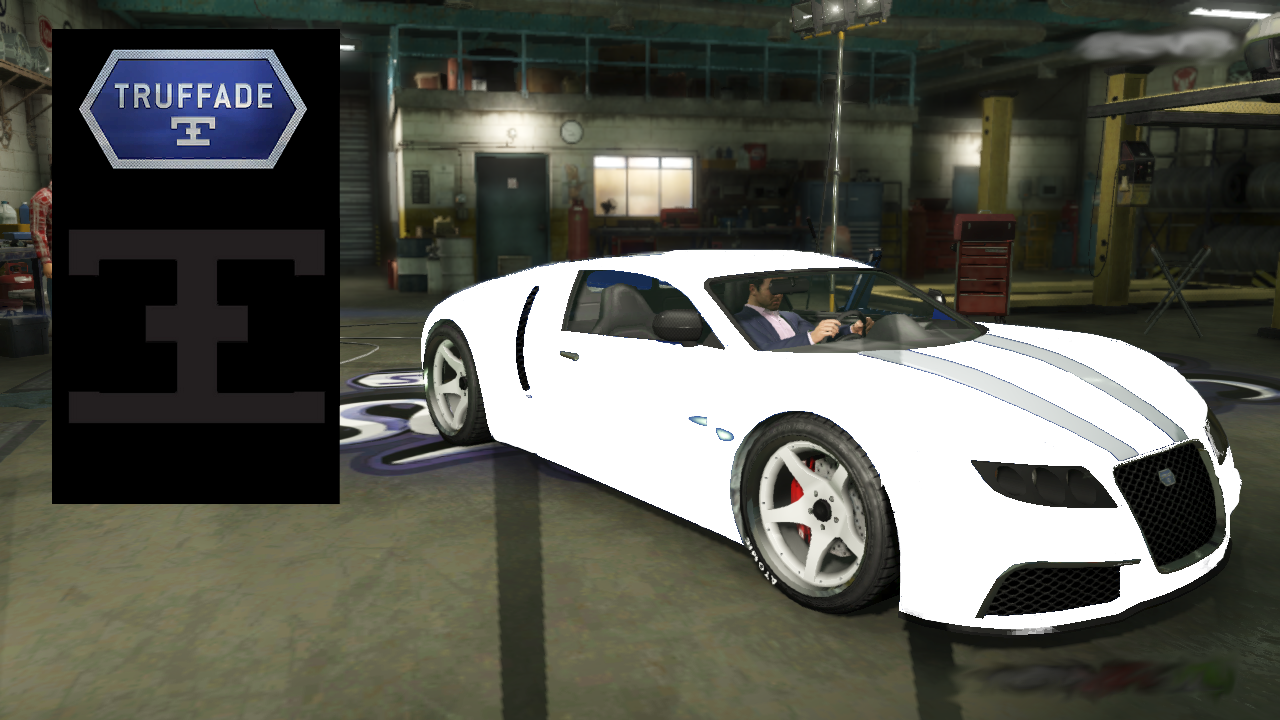
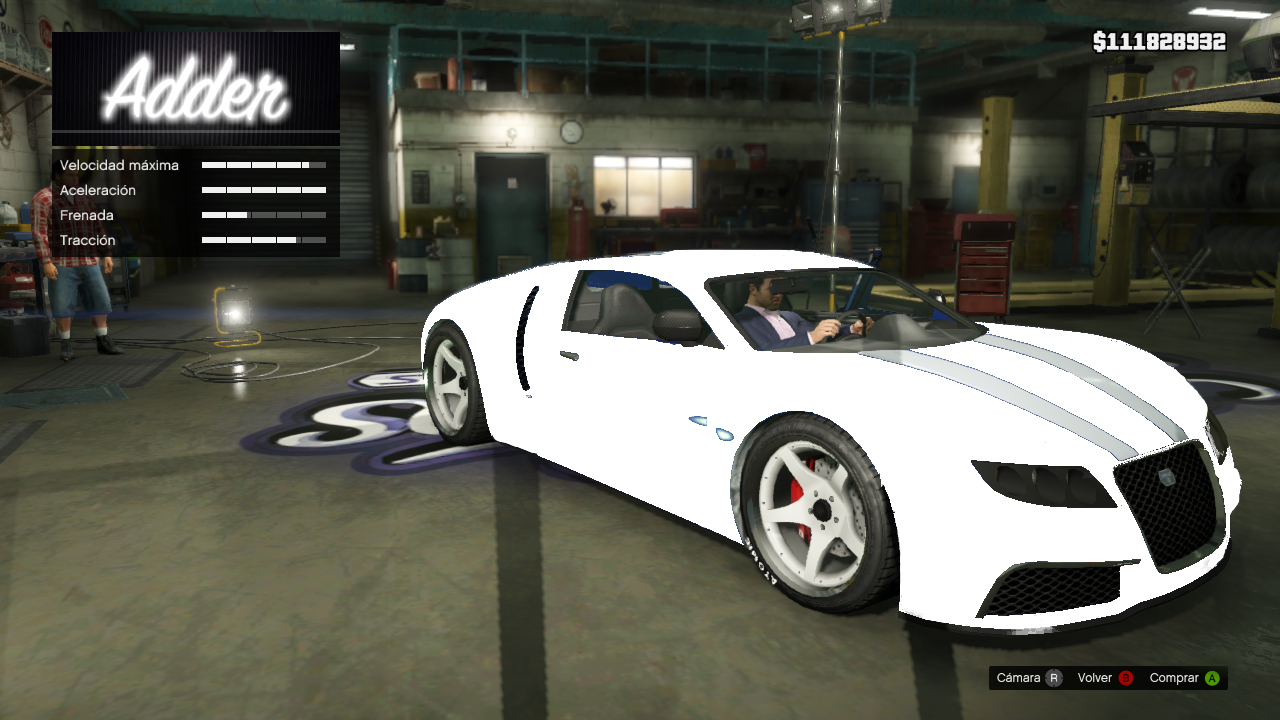
Agregado cambio de imagen de fondo de canvas ahora el nombre Adder cambia de color

diff --git a/app/personalizar.js b/app/personalizar.js
@@ -1,13 +1,14 @@
 //Obtenemos los datos a cargar en la página web a partir del JSON que los contiene, se lo pedimos al servidor
 var autoPersonalizado = {}; //variable global conteniendo los datos seleccionados por un usuario
+var jsonOpciones;
 
 var request = new XMLHttpRequest();
 request.open("GET", "./app/opciones.json");
 request.responseType = "json";
 request.send();
 request.onload = function() { //lo que ocurre al recibir la respuesta del servidor
-  var opciones = request.response;
-  cargarOpciones(opciones);
+  jsonOpciones = request.response;
+  cargarOpciones(jsonOpciones);
   cargarRecordado();
 }
 
@@ -112,6 +113,15 @@ function dibujar(opcion,valor){
   var canvas = document.getElementById("imagen-personalizada");
   var ctx = canvas.getContext("2d");
   var imageObj = new Image();
+
+  if(opcion=="Color"){
+    ctx.font="70pt SignPainter";
+    var color = jsonOpciones["opciones"][0]["colors"][valor];
+    ctx.fillStyle = color;
+    ctx.fillText("Adder",106,116);
+  }
+
+
   imageObj.onload = function() {//dibujar cuando la imagen esté cargada
     ctx.drawImage(imageObj, 0, 0, canvas.width, canvas.height);
   };
